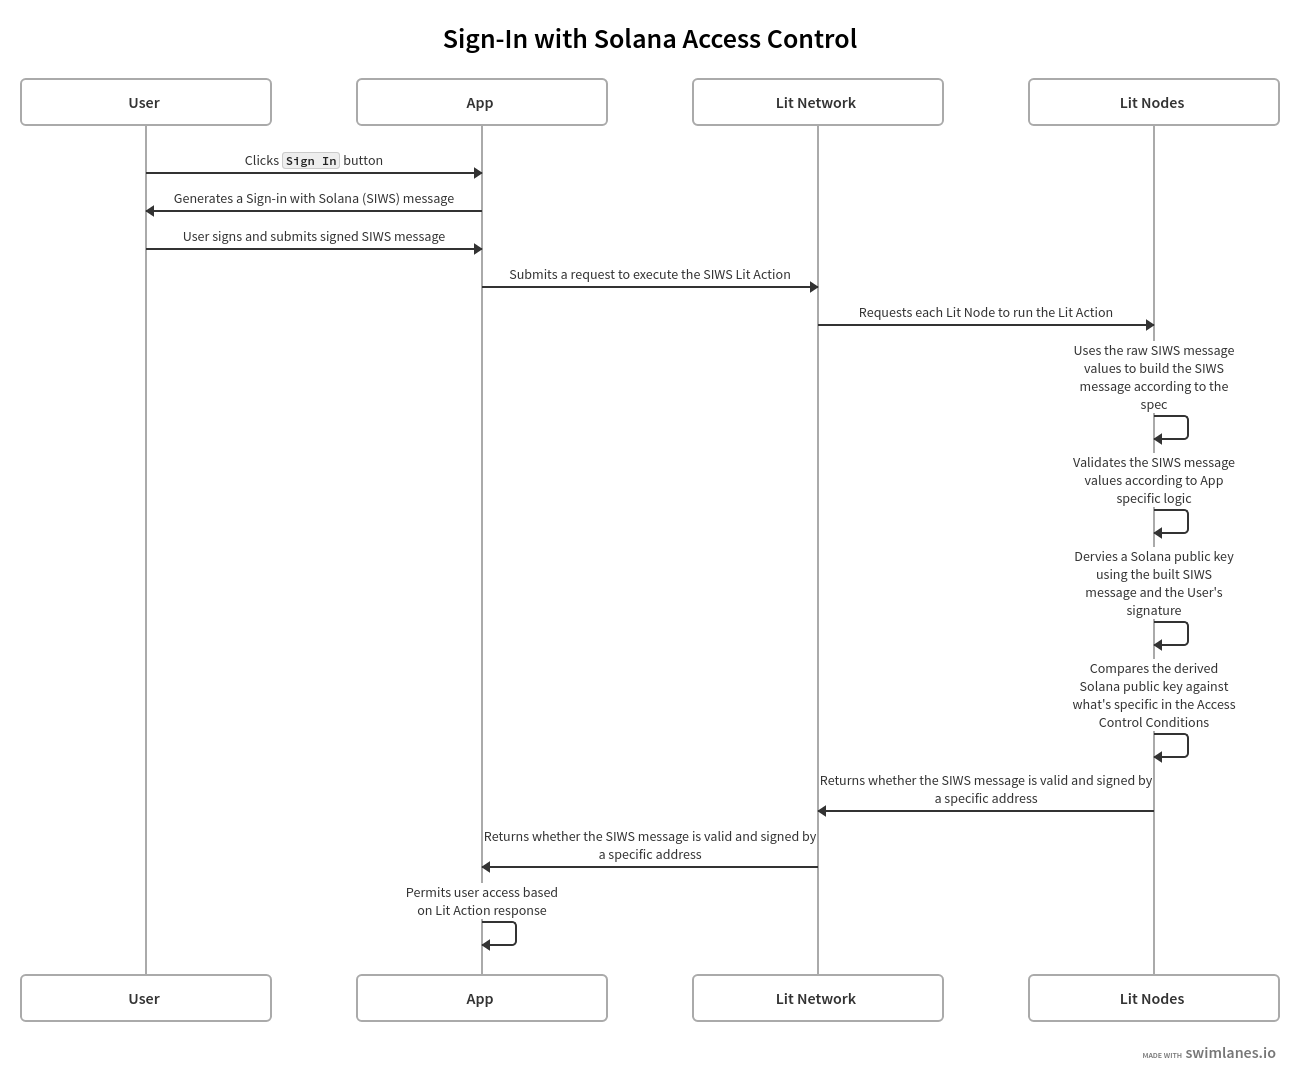
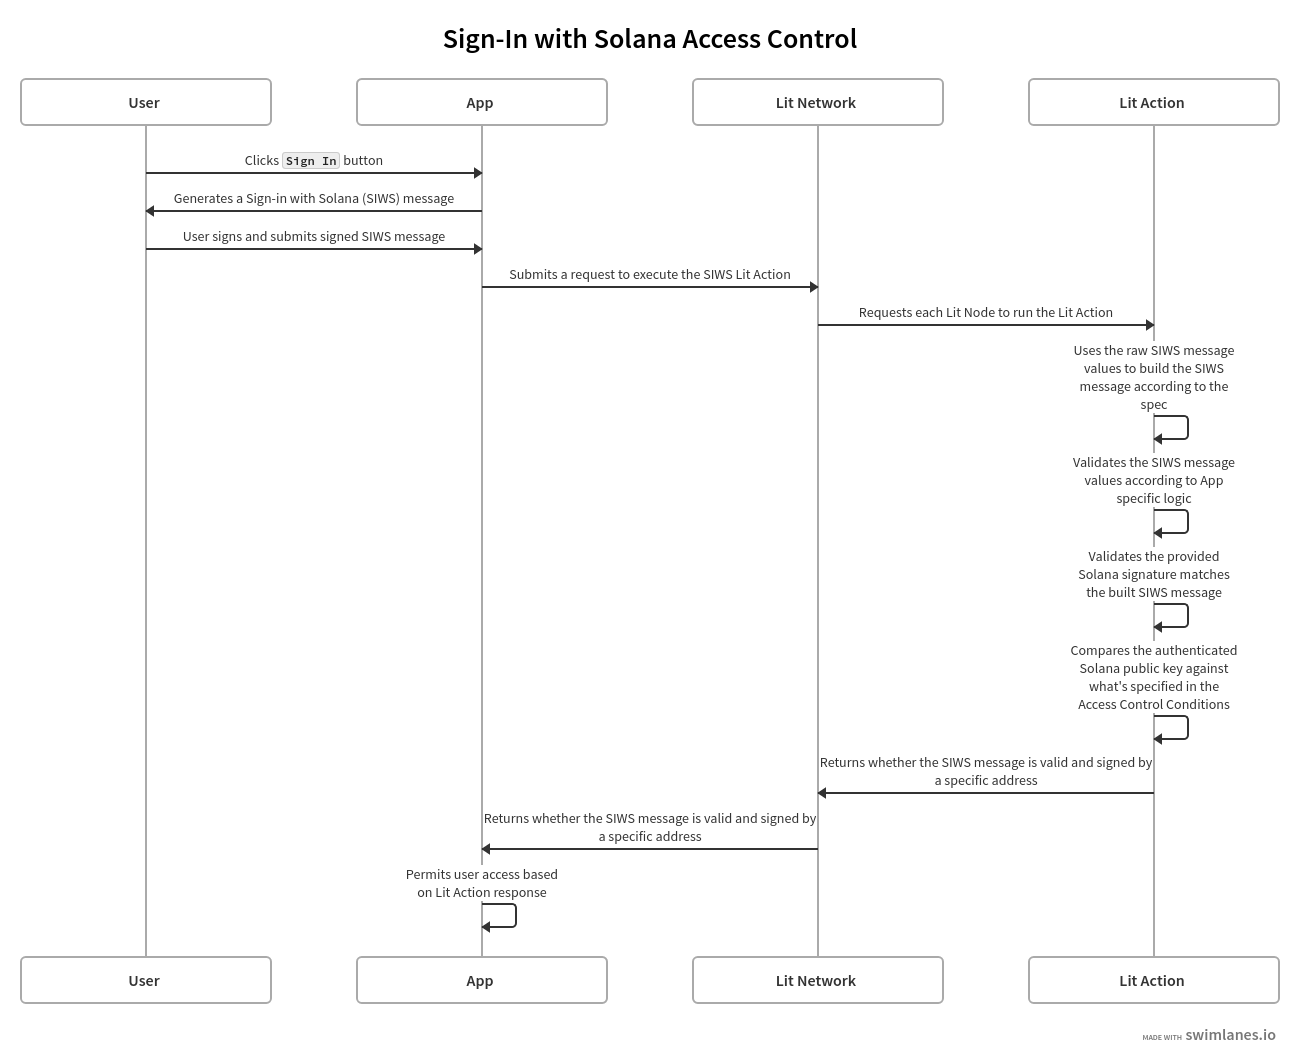
Init SIWS encryption guide

diff --git a/sidebars.js b/sidebars.js
@@ -332,6 +332,7 @@ const sidebars = {
                   collapsed: true,
                   items: [
                     'sdk/access-control/solana/siws-access-control',
+                    'sdk/access-control/solana/siws-encryption',
                     'sdk/access-control/solana/sol-rpc-conditions',
                   ],
                 },

diff --git a/docs/sdk/access-control/solana/siws-encryption.md b/docs/sdk/access-control/solana/siws-encryption.md
@@ -1,0 +1,147 @@
+# Encrypting Data with Sign-in With Solana
+
+This guide builds on the [Sign-in With Solana Access Control](./siws-access-control) guide to show how Lit Access Control Conditions, Sign-in With Solana (SIWS) messages, and Lit Actions can be used to encrypt and decrypt data based on authenticated Solana public keys.
+
+## Prerequisites
+
+Before continuing with this guide, make sure you have the following:
+
+- An understanding of how the [Generating Session Signatures Using a SIWS Message](../../authentication/session-sigs/siws-pkp-session-sigs.md) guide works
+- An understanding of how the [Sign-in With Solana Access Control](./siws-access-control) guide works
+- An understanding of how [encrypting and decrypting data](../../../sdk/access-control/intro) with Lit Access Control Conditions works
+
+## High Level Overview
+
+The following diagram depicts the flow of encrypting and decrypting data based on Solana public keys using Sign-in With Solana (SIWS) messages and Lit Access Control Conditions:
+
+![SIWS Encryption Flow](../../../../static/img/siws-encryption.png)
+
+:::info
+A full implementation of this code example can be found [here](https://github.com/LIT-Protocol/developer-guides-code/tree/master/siws-encryption/browser).
+:::
+
+## Writing the Lit Action
+
+The Lit Action used for this example does the following:
+
+1. Parses the raw SIWS message values
+2. Builds the SIWS message according to the SIWS specification
+3. Validates that the provided Solana signature is valid for the SIWS message
+4. Submits a decryption request to the Lit Network
+    - The Lit Network handles validating the Lit Access Control Conditions, collecting the decryption shares from the Lit Nodes, and submitting them to the Lit Action
+5. Combines the decryption shares and returns the decrypted data
+
+For steps 1 - 3, we reuse the SIWS authentication logic from the [SIWS Authentication](../../authentication/authenticating-siws#parsing-and-re-building-the-siws-message) guide, so this guide will pick up from step 4.
+
+:::info
+The full implementation of this Lit Action can be found [here](https://github.com/LIT-Protocol/developer-guides-code/blob/master/siws-encryption/browser/src/litActions/litActionDecrypt.ts).
+:::
+
+### The Access Control Conditions
+
+The Access Control Conditions used to encrypt the data for this example look like:
+
+```ts
+[
+    {
+      method: "",
+      params: [":userAddress"],
+      pdaParams: [],
+      pdaInterface: { offset: 0, fields: {} },
+      pdaKey: "",
+      chain: "solana",
+      returnValueTest: {
+        key: "",
+        comparator: "=",
+        // This address would be the Solana public key that is authorized
+        // to access the app, and you would replace it with the actual
+        // public key that you want to be authorized to decrypt the data.
+        value: address,
+      },
+    },
+    { operator: "and" },
+    {
+      method: "",
+      params: [":currentActionIpfsId"],
+      pdaParams: [],
+      pdaInterface: { offset: 0, fields: {} },
+      pdaKey: "",
+      chain: "solana",
+      returnValueTest: {
+        key: "",
+        comparator: "=",
+        // litActionCode is the stringified code for the SIWS Decrypt Lit Action
+        value: await calculateLitActionCodeCID(litActionCode),
+      },
+    },
+];
+```
+
+The first condition works that same way as in the [Sign-in With Solana Access Control](./siws-access-control#checking-the-access-control-conditions) guide. A Solana public key is derived from the provided signed SIWS message and compared to the public key specified as `address` in the Access Control Condition.
+
+The second condition is a [boolean condition](../condition-types/boolean-logic) that states that both the first and third conditions must be met in order for decryption to be authorized.
+
+The third condition verifies that the Lit Action executing the decryption request matches a specific IPFS CID. For this example, the expected CID corresponds to the SIWS Decrypt Lit Action's code, ensuring that only the authorized Lit Action can perform the decryption.
+
+### Decrypting the Data
+
+The above Access Control Conditions were created when the data was encrypted. They are provided to the Lit Action as a parameter of the Lit Action execution request, and are included in the Lit Action's decryption request to the Lit Network:
+
+```ts
+const decryptedData = await Lit.Actions.decryptAndCombine({
+    // solRpcConditions are the above Access Control Conditions
+    accessControlConditions: solRpcConditions,
+    ciphertext,
+    dataToEncryptHash,
+    authSig: {
+        sig: ethers.utils
+            .hexlify(ethers.utils.base58.decode(_siwsObject.signature))
+            .slice(2),
+        derivedVia: "solana.signMessage",
+        signedMessage: siwsMessage,
+        address: siwsInput.address,
+    },
+    chain: "solana",
+});
+```
+
+The `ciphertext` and `dataToEncryptHash` are generated when the data is encrypted, and are passed to the Lit Action as parameters for the Lit Action execution request.
+
+The `authSig` object is what will be used by the Lit Network to validate the first Access Control Condition. It includes:
+
+- `sig`: The provided, and now authenticated, Solana signature for the SIWS message
+- `derivedVia`: The method used to derive the public key from the signature (`solana.signMessage` for SIWS messages)
+- `signedMessage`: The authenticated SIWS message
+- `address`: The Solana public key that we authenticated when the SIWS message was validated
+
+The `chain` is set to `solana` to specify that the signature and public key are for the Solana blockchain.
+
+When the Lit Network receives the decryption request, it validates the Access Control Conditions, and if they're met, it collects the decryption shares from the Lit Nodes and returns them to the Lit Action execution context.
+
+The Lit Action then combines the decryption shares, decrypting the data, and returns the decrypted data to the frontend:
+
+```ts
+return LitActions.setResponse({ response: decryptedData });
+```
+
+## Summary
+
+This guide demonstrates how to encrypt and decrypt data based on authenticated Solana public keys using Sign-in With Solana (SIWS) messages, Lit Actions, and Lit Access Control Conditions.
+
+Key aspects of this implementation include:
+
+- **SIWS Authentication**: Leverages the Sign-in With Solana specification to authenticate Solana wallet ownership.
+- **Lit Actions**: Utilizes a custom Lit Action to parse and validate SIWS messages, and handle decryption requests.
+- **Access Control Conditions**: Implements conditions to authorize specific Solana public keys and verify the Lit Action's integrity.
+- **Encryption/Decryption Flow**: Demonstrates the process of encrypting data with Access Control Conditions and decrypting it using authenticated SIWS messages.
+
+This approach provides a secure method for:
+
+- **Encrypted Data Access**: Restricting decryption of sensitive information to specific Solana wallet owners.
+- **Customizable Authorization**: Demonstrating how to define complex access control logic based on Solana public keys and other conditions.
+
+By combining SIWS authentication with Lit Protocol's encryption capabilities, this implementation offers a robust solution for managing access to encrypted data in Solana-based applications.
+
+:::info
+A full implementation of this code example can be found [here](https://github.com/LIT-Protocol/developer-guides-code/tree/master/siws-encryption/browser).
+:::
